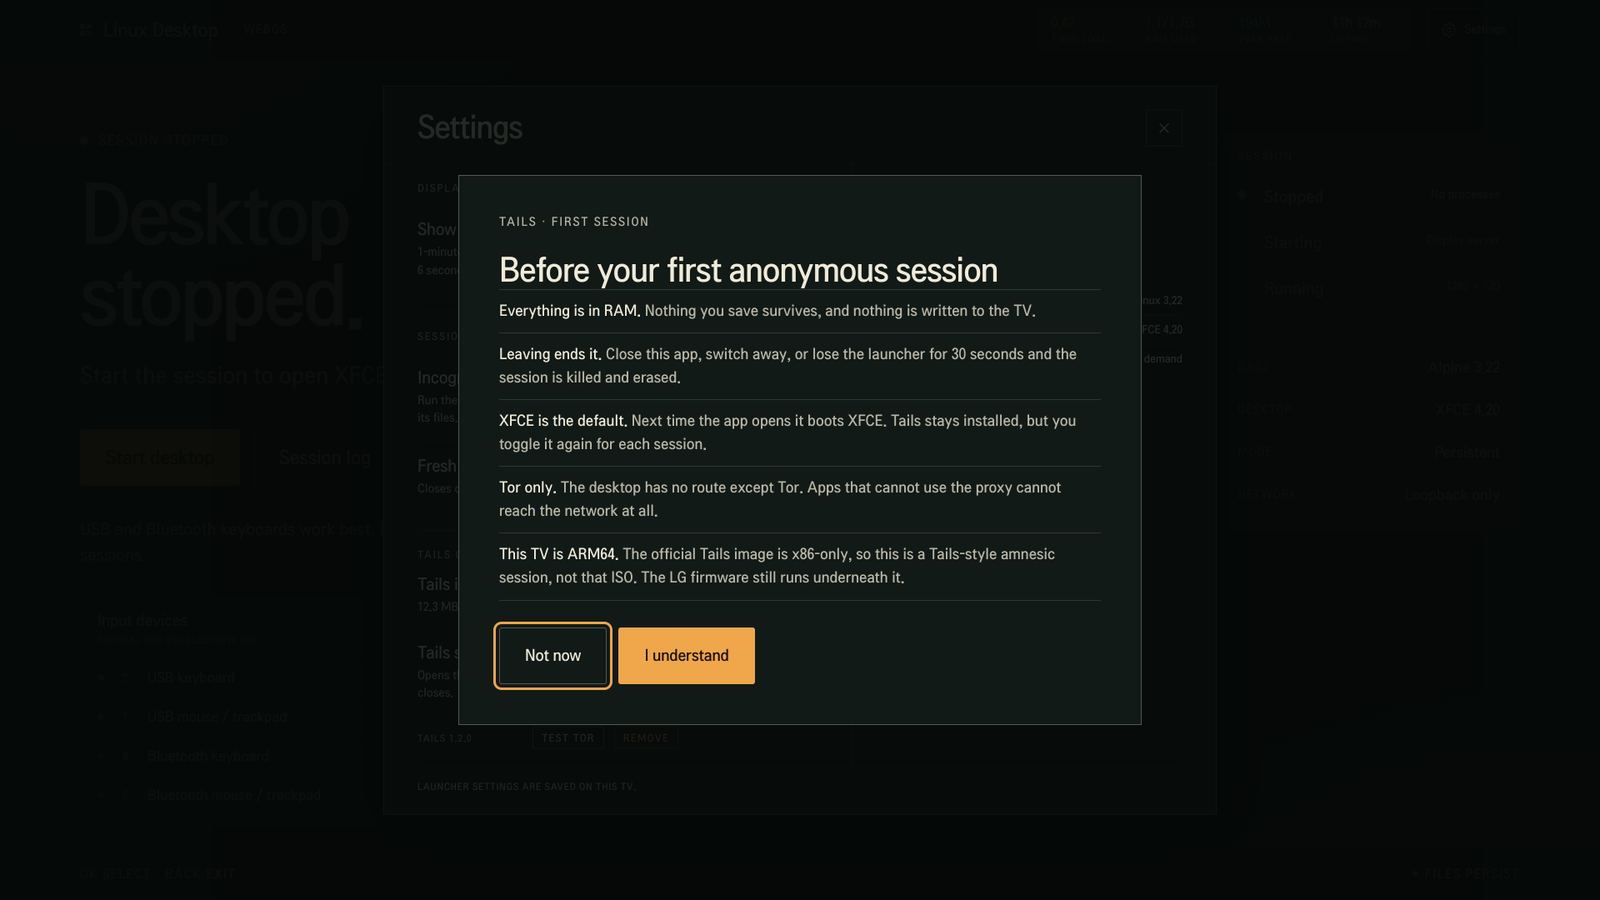
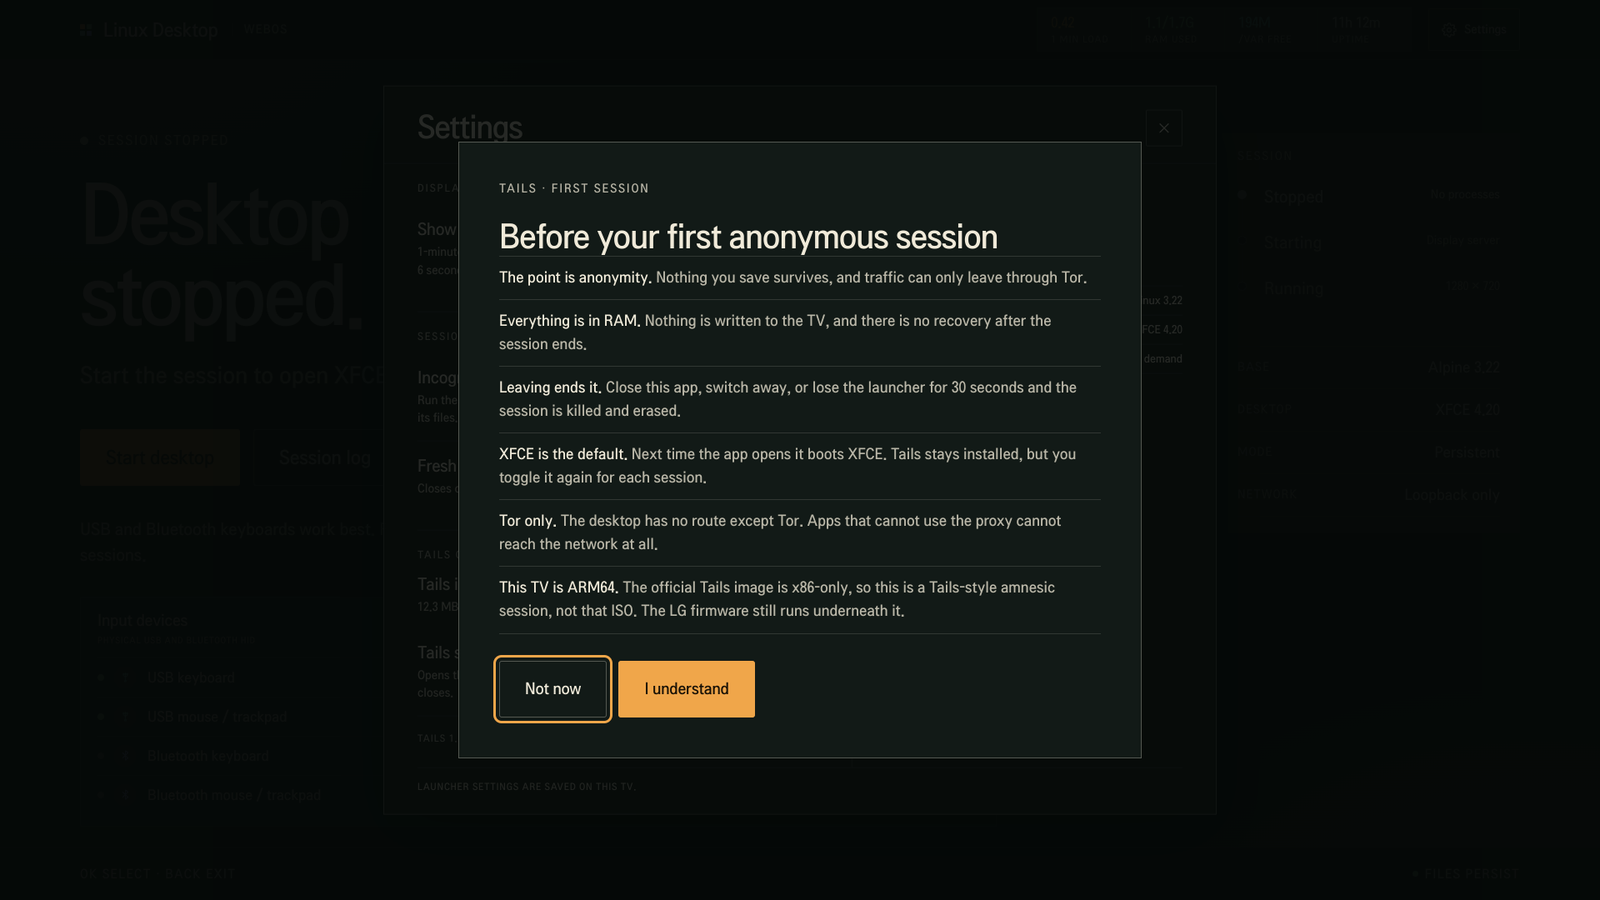
State the anonymity goal in the first-run notice

Changed region(s): [[0.2812, 0.1867, 0.6875, 0.8089]]

diff --git a/webos-app/index.html b/webos-app/index.html
@@ -179,7 +179,8 @@ session.</h1>
       <p class="eyebrow">Tails · first session</p>
       <h2 id="tails-notice-title">Before your first anonymous session</h2>
       <ul class="notice-list">
-        <li><strong>Everything is in RAM.</strong> Nothing you save survives, and nothing is written to the TV.</li>
+        <li><strong>The point is anonymity.</strong> Nothing you save survives, and traffic can only leave through Tor.</li>
+        <li><strong>Everything is in RAM.</strong> Nothing is written to the TV, and there is no recovery after the session ends.</li>
         <li><strong>Leaving ends it.</strong> Close this app, switch away, or lose the launcher for 30 seconds and the session is killed and erased.</li>
         <li><strong>XFCE is the default.</strong> Next time the app opens it boots XFCE. Tails stays installed, but you toggle it again for each session.</li>
         <li><strong>Tor only.</strong> The desktop has no route except Tor. Apps that cannot use the proxy cannot reach the network at all.</li>

diff --git a/README.md b/README.md
@@ -93,8 +93,8 @@ remote diagnostics. It also reports whether a DNS telemetry blocker is active.
 If anything is on, the launcher shows what it found before the first session.
 It does not change TV settings for you.
 
-The notice explains the RAM-only rule, the 30-second timeout, the one-shot
-toggle, Tor routing, and the ARM64 limitation. Both dialogs store their
+The notice explains the anonymity goal, the RAM-only rule, the 30-second
+timeout, the one-shot toggle, Tor routing, and the ARM64 limitation. Both dialogs store their
 acknowledgement on the TV, so they appear once per install.
 
 ![First-run notice](docs/tails-notice.png)
